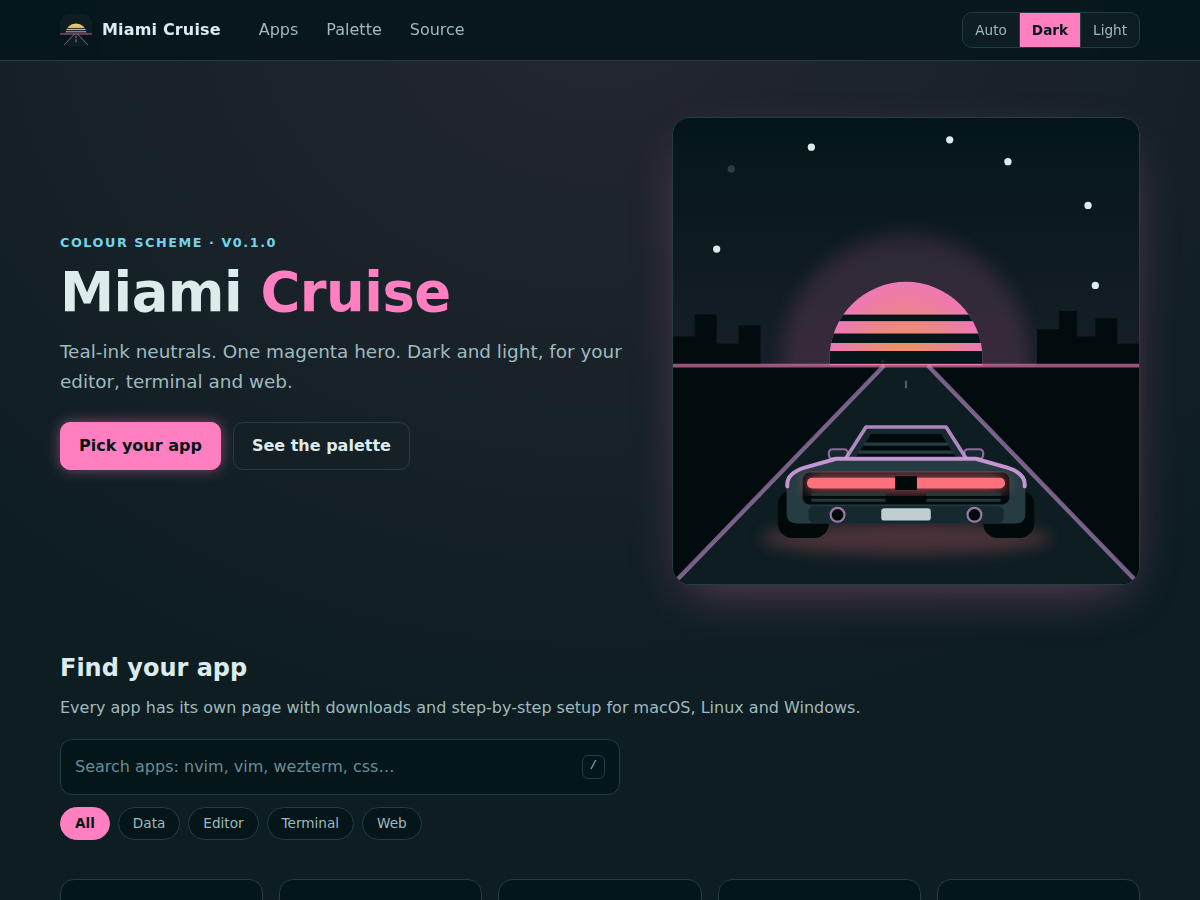
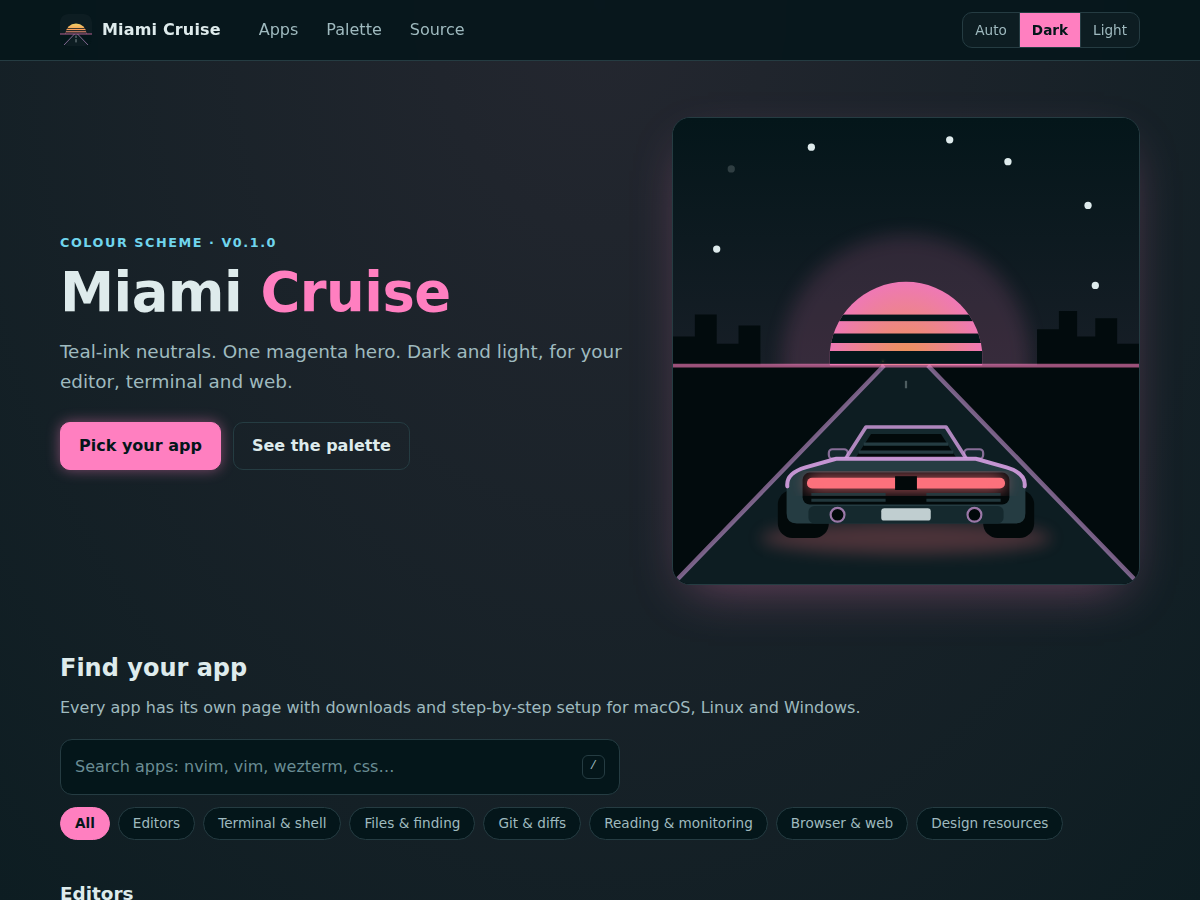
feat(catalogue): organize apps into consistent groups across website and README
- Centralize group ordering and badge tones in themes.GROUPS
- Sort apps alphabetically within groups and reject unknown categories
- Render grouped app sections and hide empty groups when filtering
- Update README generation and homepage previews

diff --git a/website/assets/style.css b/website/assets/style.css
@@ -80,6 +80,9 @@ h3 { font-size: 1.1rem; margin: 22px 0 6px; }
 .chips button:hover { color: var(--mc-text); border-color: var(--mc-accent); }
 .chips button[aria-pressed="true"] { background: var(--mc-accent); border-color: var(--mc-accent); color: var(--mc-on-accent); font-weight: 700; }
 .count { color: var(--mc-muted); font-size: .9rem; min-height: 1.5em; margin: 0 0 14px; }
+.app-groups { display: grid; gap: 26px; }
+.app-groups[hidden], .app-group[hidden] { display: none; }
+.app-group h3 { margin: 0 0 12px; color: var(--mc-text); font-size: 1.15rem; }
 .grid { display: grid; grid-template-columns: repeat(auto-fit, minmax(190px, 1fr)); gap: 16px; padding: 0; margin: 0; list-style: none; }
 .grid[hidden], [data-card][hidden] { display: none; }
 .card { display: flex; flex-direction: column; gap: 10px; height: 100%; padding: 20px; color: var(--mc-text); text-decoration: none;

diff --git a/website/assets/app.js b/website/assets/app.js
@@ -69,7 +69,8 @@
   var q = document.getElementById("q");
   if (q) {
     var cards = document.querySelectorAll("[data-card]");
-    var grid = document.getElementById("apps");
+    var grid = document.getElementById("app-groups");
+    var groups = document.querySelectorAll("[data-group]");
     var count = document.getElementById("count");
     var empty = document.getElementById("empty");
     var chips = document.querySelectorAll("[data-cat-set]");
@@ -82,6 +83,9 @@
           (category === "" || cards[k].getAttribute("data-cat") === category);
         cards[k].hidden = !ok;
         if (ok) shown++;
+      }
+      for (var g = 0; g < groups.length; g++) {
+        groups[g].hidden = !groups[g].querySelector("[data-card]:not([hidden])");
       }
       grid.hidden = shown === 0;
       empty.hidden = shown !== 0;

diff --git a/website/generate.py b/website/generate.py
@@ -16,6 +16,7 @@ import zipfile
 from pathlib import Path
 
 from palette import TOKEN_ORDER, VERSION, contrast
+from themes import GROUPS
 from themes import _hl
 from themes.brand import BRAND, brand_values, fill
 
@@ -206,19 +207,25 @@ def swatch(token, hexv):
 
 
 def index_page(scene, pals, zip_info):
-    cards = "".join(
-        f'<li data-card data-cat="{esc(a["category"])}" data-search="{esc((a["name"] + " " + a["aliases"] + " " + " ".join(a["tags"]) + " " + a["category"] + " " + a["tagline"]).lower())}">'
-        f'<a class="card" href="apps/{a["id"]}.html">{app_icon(a)}'
-        f'<strong>{esc(a["name"])}</strong><p>{esc(a["tagline"])}</p>'
-        f'<ul class="tags">{"".join(f"<li class=tag>{esc(t)}</li>" for t in a["tags"])}</ul></a></li>'
-        for a in APPS
+    def card(a):
+        search = (a["name"] + " " + a["aliases"] + " " + " ".join(a["tags"]) +
+                  " " + a["category"] + " " + a["tagline"]).lower()
+        return (f'<li data-card data-cat="{esc(a["category"])}" data-search="{esc(search)}">'
+                f'<a class="card" href="apps/{a["id"]}.html">{app_icon(a)}'
+                f'<strong>{esc(a["name"])}</strong><p>{esc(a["tagline"])}</p>'
+                f'<ul class="tags">{"".join(f"<li class=tag>{esc(t)}</li>" for t in a["tags"])}</ul></a></li>')
+
+    cats = [c for c in GROUPS if any(a["category"] == c for a in APPS)]
+    groups = "".join(
+        f'<section class="app-group" data-group="{esc(c)}"><h3>{esc(c)}</h3>'
+        f'<ul class="grid">{"".join(card(a) for a in APPS if a["category"] == c)}</ul></section>'
+        for c in cats
     )
-    cats = sorted({a["category"] for a in APPS})
     chips = ""
     if len(cats) > 1:
         buttons = '<button type="button" data-cat-set="" aria-pressed="true">All</button>' + "".join(
             f'<button type="button" data-cat-set="{esc(c)}" aria-pressed="false">{esc(c)}</button>' for c in cats)
-        chips = f'<div class="chips" role="group" aria-label="Filter by type">{buttons}</div>'
+        chips = f'<div class="chips" role="group" aria-label="Filter by app group">{buttons}</div>'
     dark = pals["dark"][0]
     strip = "".join(swatch(k, dark[k]) for k in ("bg", "panel", "border", "text", "accent", "success", "warning", "danger", "info", "orange", "orchid"))
     zip_btn = (f'<a class="btn ghost" href="{zip_info["href"]}" download>Download everything <small>{zip_info["size"]}</small></a>')
@@ -241,7 +248,7 @@ def index_page(scene, pals, zip_info):
     <kbd aria-hidden="true">/</kbd></label>
   {chips}
   <p class="count" id="count" aria-live="polite"></p>
-  <ul class="grid" id="apps">{cards}</ul>
+  <div class="app-groups" id="app-groups">{groups}</div>
   <p class="empty" id="empty" hidden>No app matches that yet. The <a href="apps/tokens.html">design tokens</a> work for anything.</p>
   <p style="margin-top:22px">{zip_btn}</p>
 </div></section>

diff --git a/themes/__init__.py b/themes/__init__.py
@@ -8,6 +8,18 @@ import pkgutil
 
 NOT_APPS = {"brand", "guides"}
 
+# Catalogue order and text-badge tone. Each app chooses one group in its GUIDE;
+# cards, filter chips and the README table follow the same order.
+GROUPS = {
+    "Editors": "accent",
+    "Terminal & shell": "accent",
+    "Files & finding": "info",
+    "Git & diffs": "orchid",
+    "Reading & monitoring": "info",
+    "Browser & web": "accent",
+    "Design resources": "orchid",
+}
+
 
 def modules():
     """{name: module} for every app theme, sorted by name."""
@@ -22,6 +34,10 @@ def modules():
 
 
 def load_guides():
-    """{app_id: GUIDE} for every theme that has one, in display order (order, then name)."""
+    """{app_id: GUIDE} in catalogue group order, then alphabetically by name."""
     guides = {name: m.GUIDE for name, m in modules().items() if hasattr(m, "GUIDE")}
-    return dict(sorted(guides.items(), key=lambda kv: (kv[1].get("order", 50), kv[1]["name"].lower())))
+    unknown = {g["category"] for g in guides.values()} - GROUPS.keys()
+    if unknown:
+        raise ValueError(f"Unknown app group(s): {sorted(unknown)}; add them to themes.GROUPS")
+    rank = {name: i for i, name in enumerate(GROUPS)}
+    return dict(sorted(guides.items(), key=lambda kv: (rank[kv[1]["category"]], kv[1]["name"].casefold())))

diff --git a/website/content.py b/website/content.py
@@ -9,7 +9,7 @@ low-contrast pair.
 import re
 
 from project import REPO_URL, SITE_URL  # noqa: F401  (re-exported for the generator)
-from themes import load_guides
+from themes import GROUPS, load_guides
 
 TAGLINE = "Teal-ink neutrals. One magenta hero. Dark and light, for your editor, terminal and web."
 
@@ -30,7 +30,8 @@ def default_badge(name):
     return "".join(word[0] for word in words[:3]).upper()
 
 
-APPS = [{**DEFAULTS, "mono": default_badge(g["name"]), "id": app_id, **g} for app_id, g in load_guides().items()]
+APPS = [{**DEFAULTS, "mono": default_badge(g["name"]), "id": app_id, **g,
+         "badge_tone": GROUPS[g["category"]]} for app_id, g in load_guides().items()]
 
 TOKEN_USE = {
     "bg": "Page / main surface", "panel": "Sidebars, headers, recessed panels", "border": "Dividers and borders",

diff --git a/themes/wezterm.py b/themes/wezterm.py
@@ -137,7 +137,7 @@ def _lua_list(name, colors):
 # Install guide: rendered to dist/wezterm/README.md and used by the website and the README table.
 # Step blocks: ("p", html) | ("note", html) | ("warn", html) | ("code", [(os_label | None, lang, text), ...])
 GUIDE = dict(
-    category='Terminal', order=30, mono='wez', text_badge=True,
+    category='Terminal & shell', mono='wez', text_badge=True,
     tags=['Terminal', 'Lua'],
     aliases='wezterm wez terminal lua tabs windows macos linux',
     status='Verified on Linux/X11; macOS, Windows and system appearance transitions not yet tested',

diff --git a/themes/web.py b/themes/web.py
@@ -30,7 +30,7 @@ GLOW = """/* Miami Cruise glow layer - OPTIONAL. Decoration only; nothing here c
 # Install guide: rendered to dist/web/README.md and used by the website and the README table.
 # Step blocks: ("p", html) | ("note", html) | ("warn", html) | ("code", [(os_label | None, lang, text), ...])
 GUIDE = dict(
-    category='Web', order=40, mono='CSS', badge_tone='info',
+    category='Browser & web', mono='CSS',
     tags=['Web', 'CSS'],
     aliases='web css website html variables custom properties glow theme',
     status="Stable. The project's own website is built on it",

diff --git a/themes/tokens.py b/themes/tokens.py
@@ -10,7 +10,7 @@ TEXT_KEYS = ("text", "muted", "disabled", "accent", "success", "warning", "dange
 # Install guide: rendered to dist/tokens/README.md and used by the website and the README table.
 # Step blocks: ("p", html) | ("note", html) | ("warn", html) | ("code", [(os_label | None, lang, text), ...])
 GUIDE = dict(
-    category='Data', order=90, mono='{}', badge_tone='orchid',
+    category='Design resources', mono='{}',
     tags=['JSON', 'Any app'],
     aliases='tokens json design palette colours colors port other app custom',
     status='Design tokens as JSON',

diff --git a/themes/nvim.py b/themes/nvim.py
@@ -194,7 +194,7 @@ def _core_lua(pals):
 # Install guide: rendered to dist/nvim/README.md and used by the website and the README table.
 # Step blocks: ("p", html) | ("note", html) | ("warn", html) | ("code", [(os_label | None, lang, text), ...])
 GUIDE = dict(
-    category='Editor', order=10, mono='nvim', text_badge=True,
+    category='Editors', mono='nvim', text_badge=True,
     tags=['Editor', 'Lua'],
     aliases='neovim nvim lua treesitter lsp editor vim',
     status='Stable. Tested on Neovim 0.12 with Treesitter',

diff --git a/docs/generate.py b/docs/generate.py
@@ -14,9 +14,9 @@ START, END = "<!-- apps:start -->", "<!-- apps:end -->"
 
 
 def apps_table():
-    rows = ["| App | Install guide | Status |", "|---|---|---|"]
+    rows = ["| Group | App | Install guide | Status |", "|---|---|---|---|"]
     for app_id, g in load_guides().items():
-        rows.append(f"| {g['name']} | [`dist/{app_id}`](dist/{app_id}) | {g['status']} |")
+        rows.append(f"| {g['category']} | {g['name']} | [`dist/{app_id}`](dist/{app_id}) | {g['status']} |")
     return "\n".join(rows)
 
 

diff --git a/themes/vim.py b/themes/vim.py
@@ -90,7 +90,7 @@ def _block(p, transparent):
 # Install guide: rendered to dist/vim/README.md and used by the website and the README table.
 # Step blocks: ("p", html) | ("note", html) | ("warn", html) | ("code", [(os_label | None, lang, text), ...])
 GUIDE = dict(
-    category='Editor', order=20, mono='vim', text_badge=True,
+    category='Editors', mono='vim', text_badge=True,
     tags=['Editor', 'Vimscript'],
     aliases='vim vi vimscript editor gvim',
     status='Stable. Tested on Vim 9.1',

diff --git a/themes/zsh.py b/themes/zsh.py
@@ -162,7 +162,7 @@ function miami_cruise_dir() {{
 
 
 GUIDE = dict(
-    name="Zsh", category="Terminal", order=50, mono="zsh", badge_tone="info",
+    name="Zsh", category="Terminal & shell", mono="zsh",
     tags=["Shell", "Prompt", "Oh My Zsh"], aliases="zsh oh my zsh prompt shell git status ahead behind staged untracked user host path",
     status="Beta. Tested with Zsh 5.9 and Oh My Zsh on Linux; macOS not tested",
     tagline="A two-line prompt with adaptive paths and Git status.",
